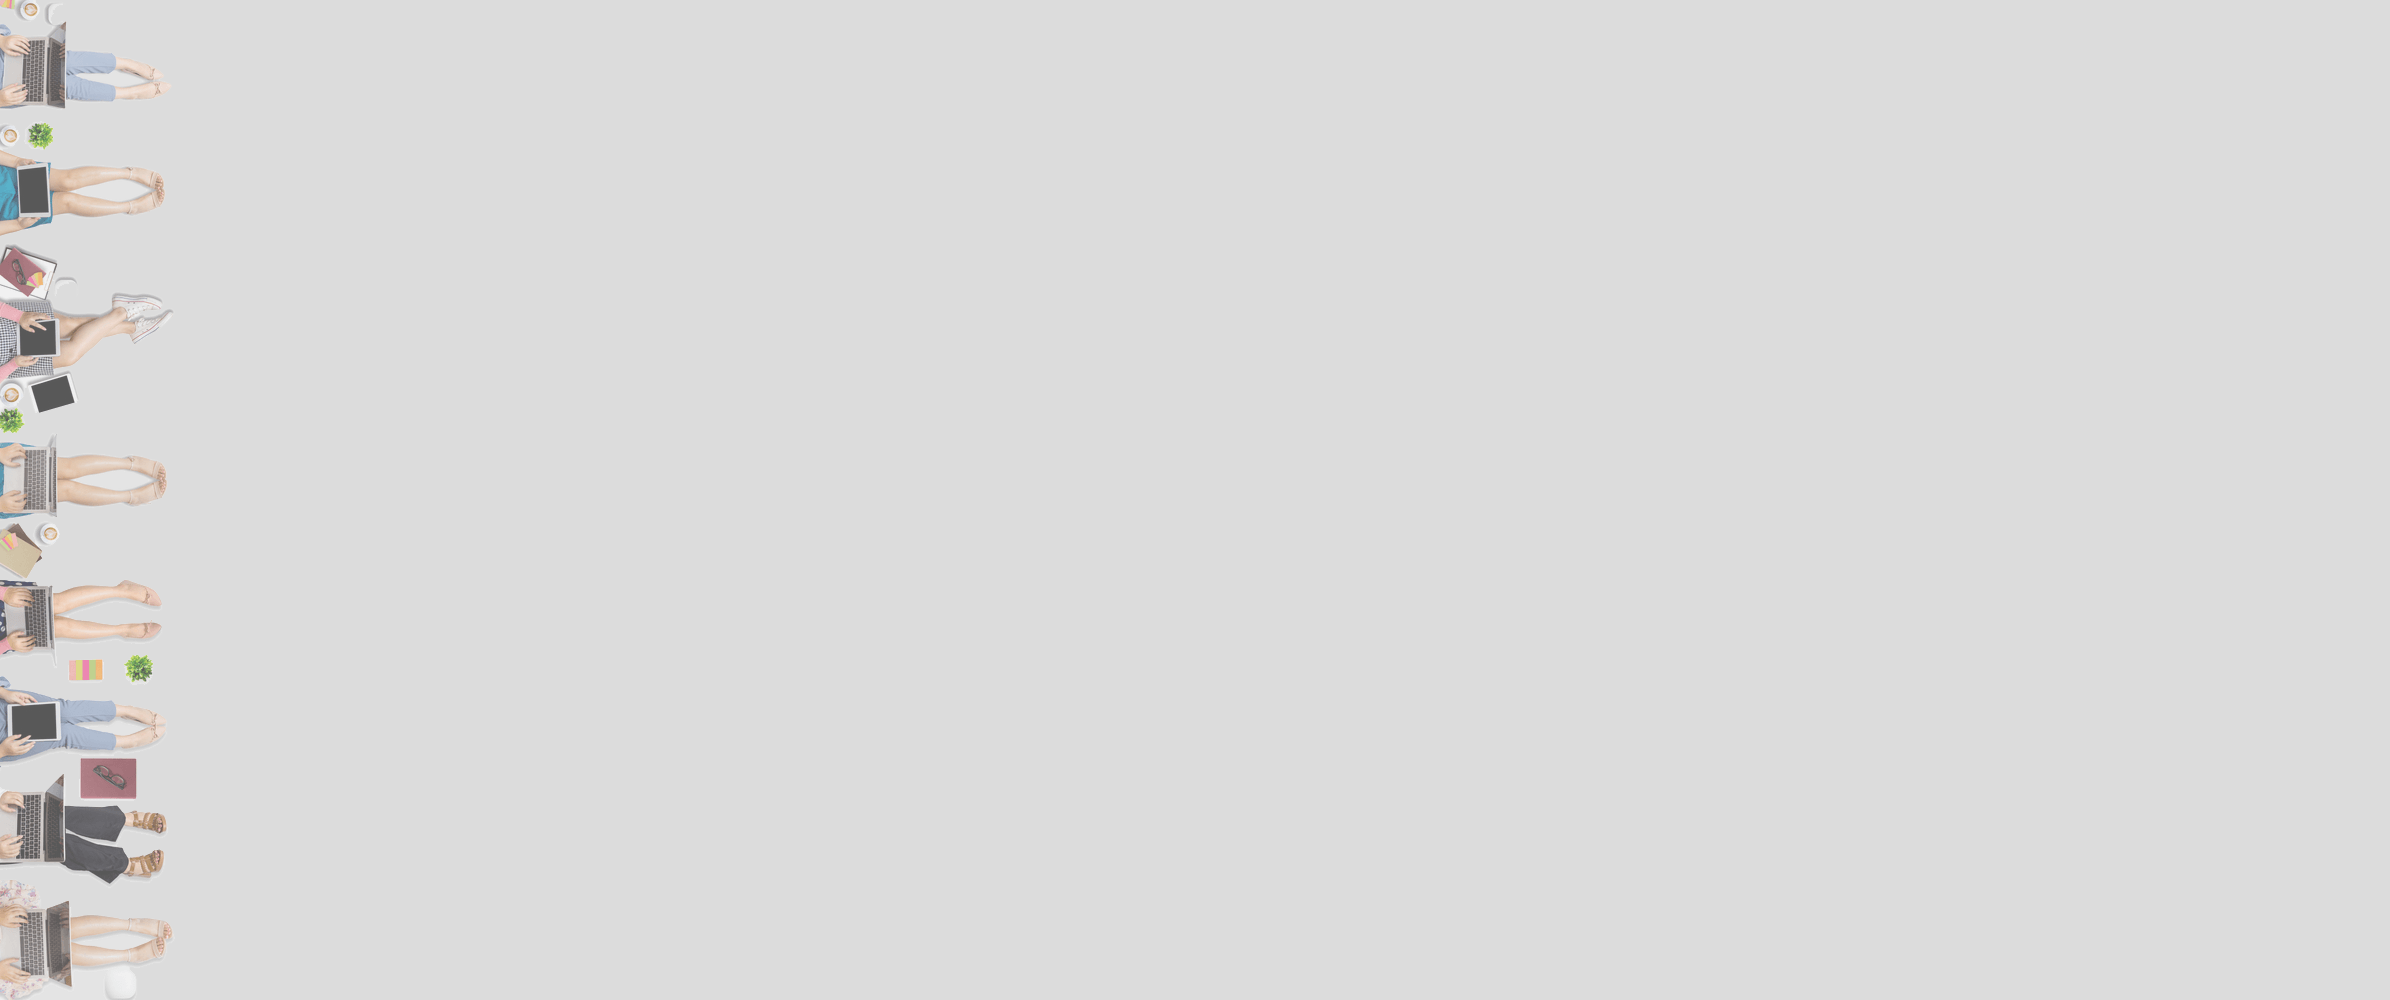
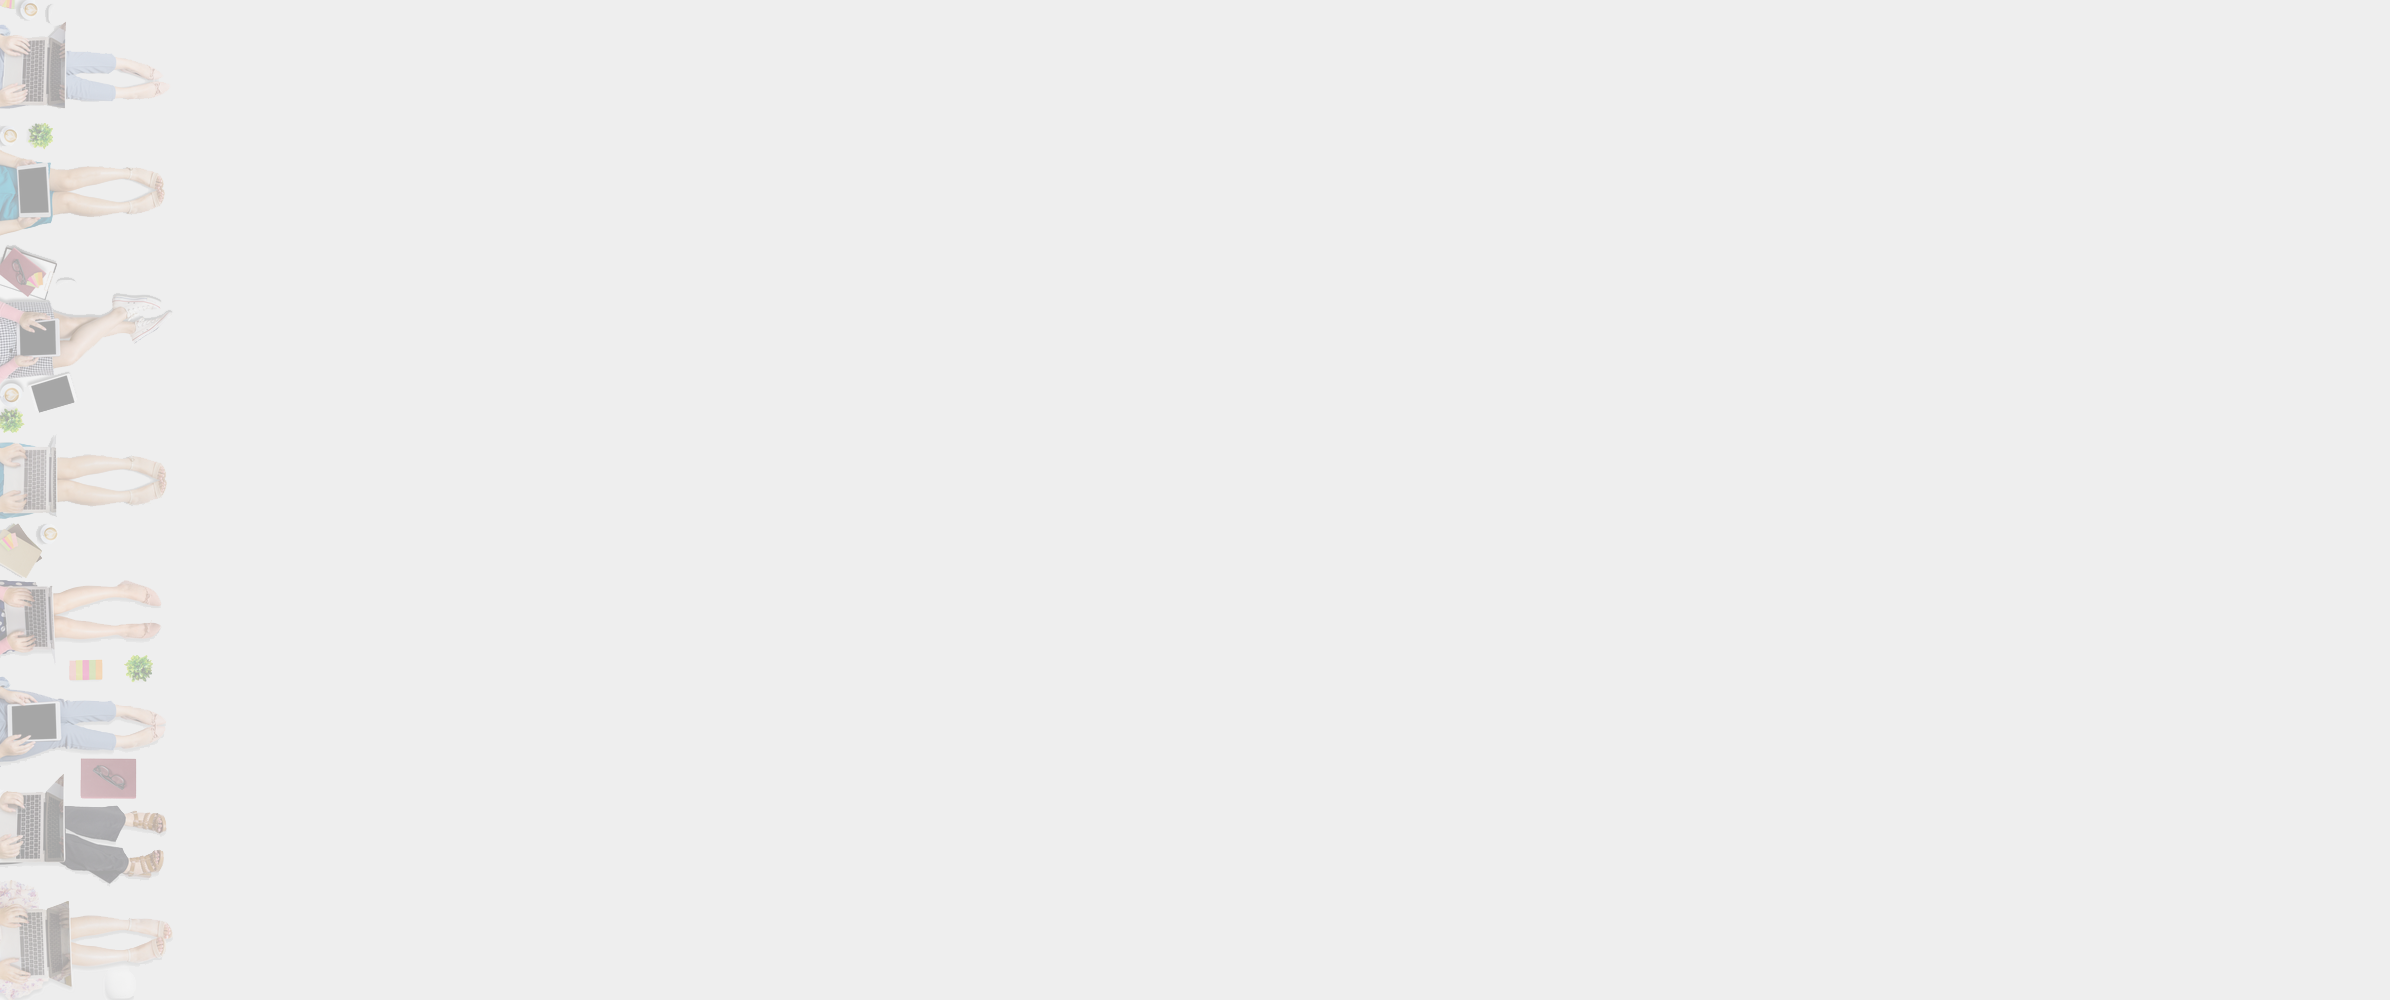
Background image updated + minor style changes in MyProfile

Changed region(s): [[0.0, 0.0, 0.0929, 0.992]]

diff --git a/client/src/components/MyProfile/MyProfile.module.scss b/client/src/components/MyProfile/MyProfile.module.scss
@@ -1,6 +1,7 @@
 .myProfileComponentSection {
     margin: 10px 0;
     display: grid;
+    height: 100%;
     
     grid-template-columns: 1fr 3fr;
     grid-template-rows: 100px repeat(2, auto);
@@ -17,6 +18,8 @@
         justify-self: center;
 
         text-align: center;
+
+
     }
 
     .userProfile {
@@ -39,8 +42,16 @@
         padding: 0 10px;
         >div {
             margin-top: 20px;
+            
             display: flex;
             flex-direction: column;
+            
+            padding: 20px;
+            border: 3px solid white;
+            border-radius: 20px;
+            background-color: rgb(90,68,123);
+            box-shadow: 2px 2px 15px rgb(41, 29, 29);
+
 
             h4 {
                 align-self: center;

diff --git a/client/src/components/MyProfile/MyProfile.js b/client/src/components/MyProfile/MyProfile.js
@@ -61,7 +61,7 @@ function MyProfile() {
                     <div>
                         {myFavorites.length > 0 
                             ? myFavorites.map(x => <ListingCard key={x._id} service={x} />) 
-                            : 'You haven\'t added any services to your favorites list yet...'
+                            : 'No services have been added to your favorites list yet...'
                         }
                     </div>
                 </div>

diff --git a/client/src/components/Home/Home.js b/client/src/components/Home/Home.js
@@ -99,7 +99,7 @@ const Home = () => {
 
             <div className={styles['profession-div']}>
                 <div className={styles['profession-image-div']}>
-                    <img src={`/img/professions/${profession.image}`} className="img-fluid" />
+                    <img src={`/img/professions/${profession.image}`} className="img-fluid" alt="Profession"/>
                     <h4>{profession.name}</h4>
                 </div>
             </div>
